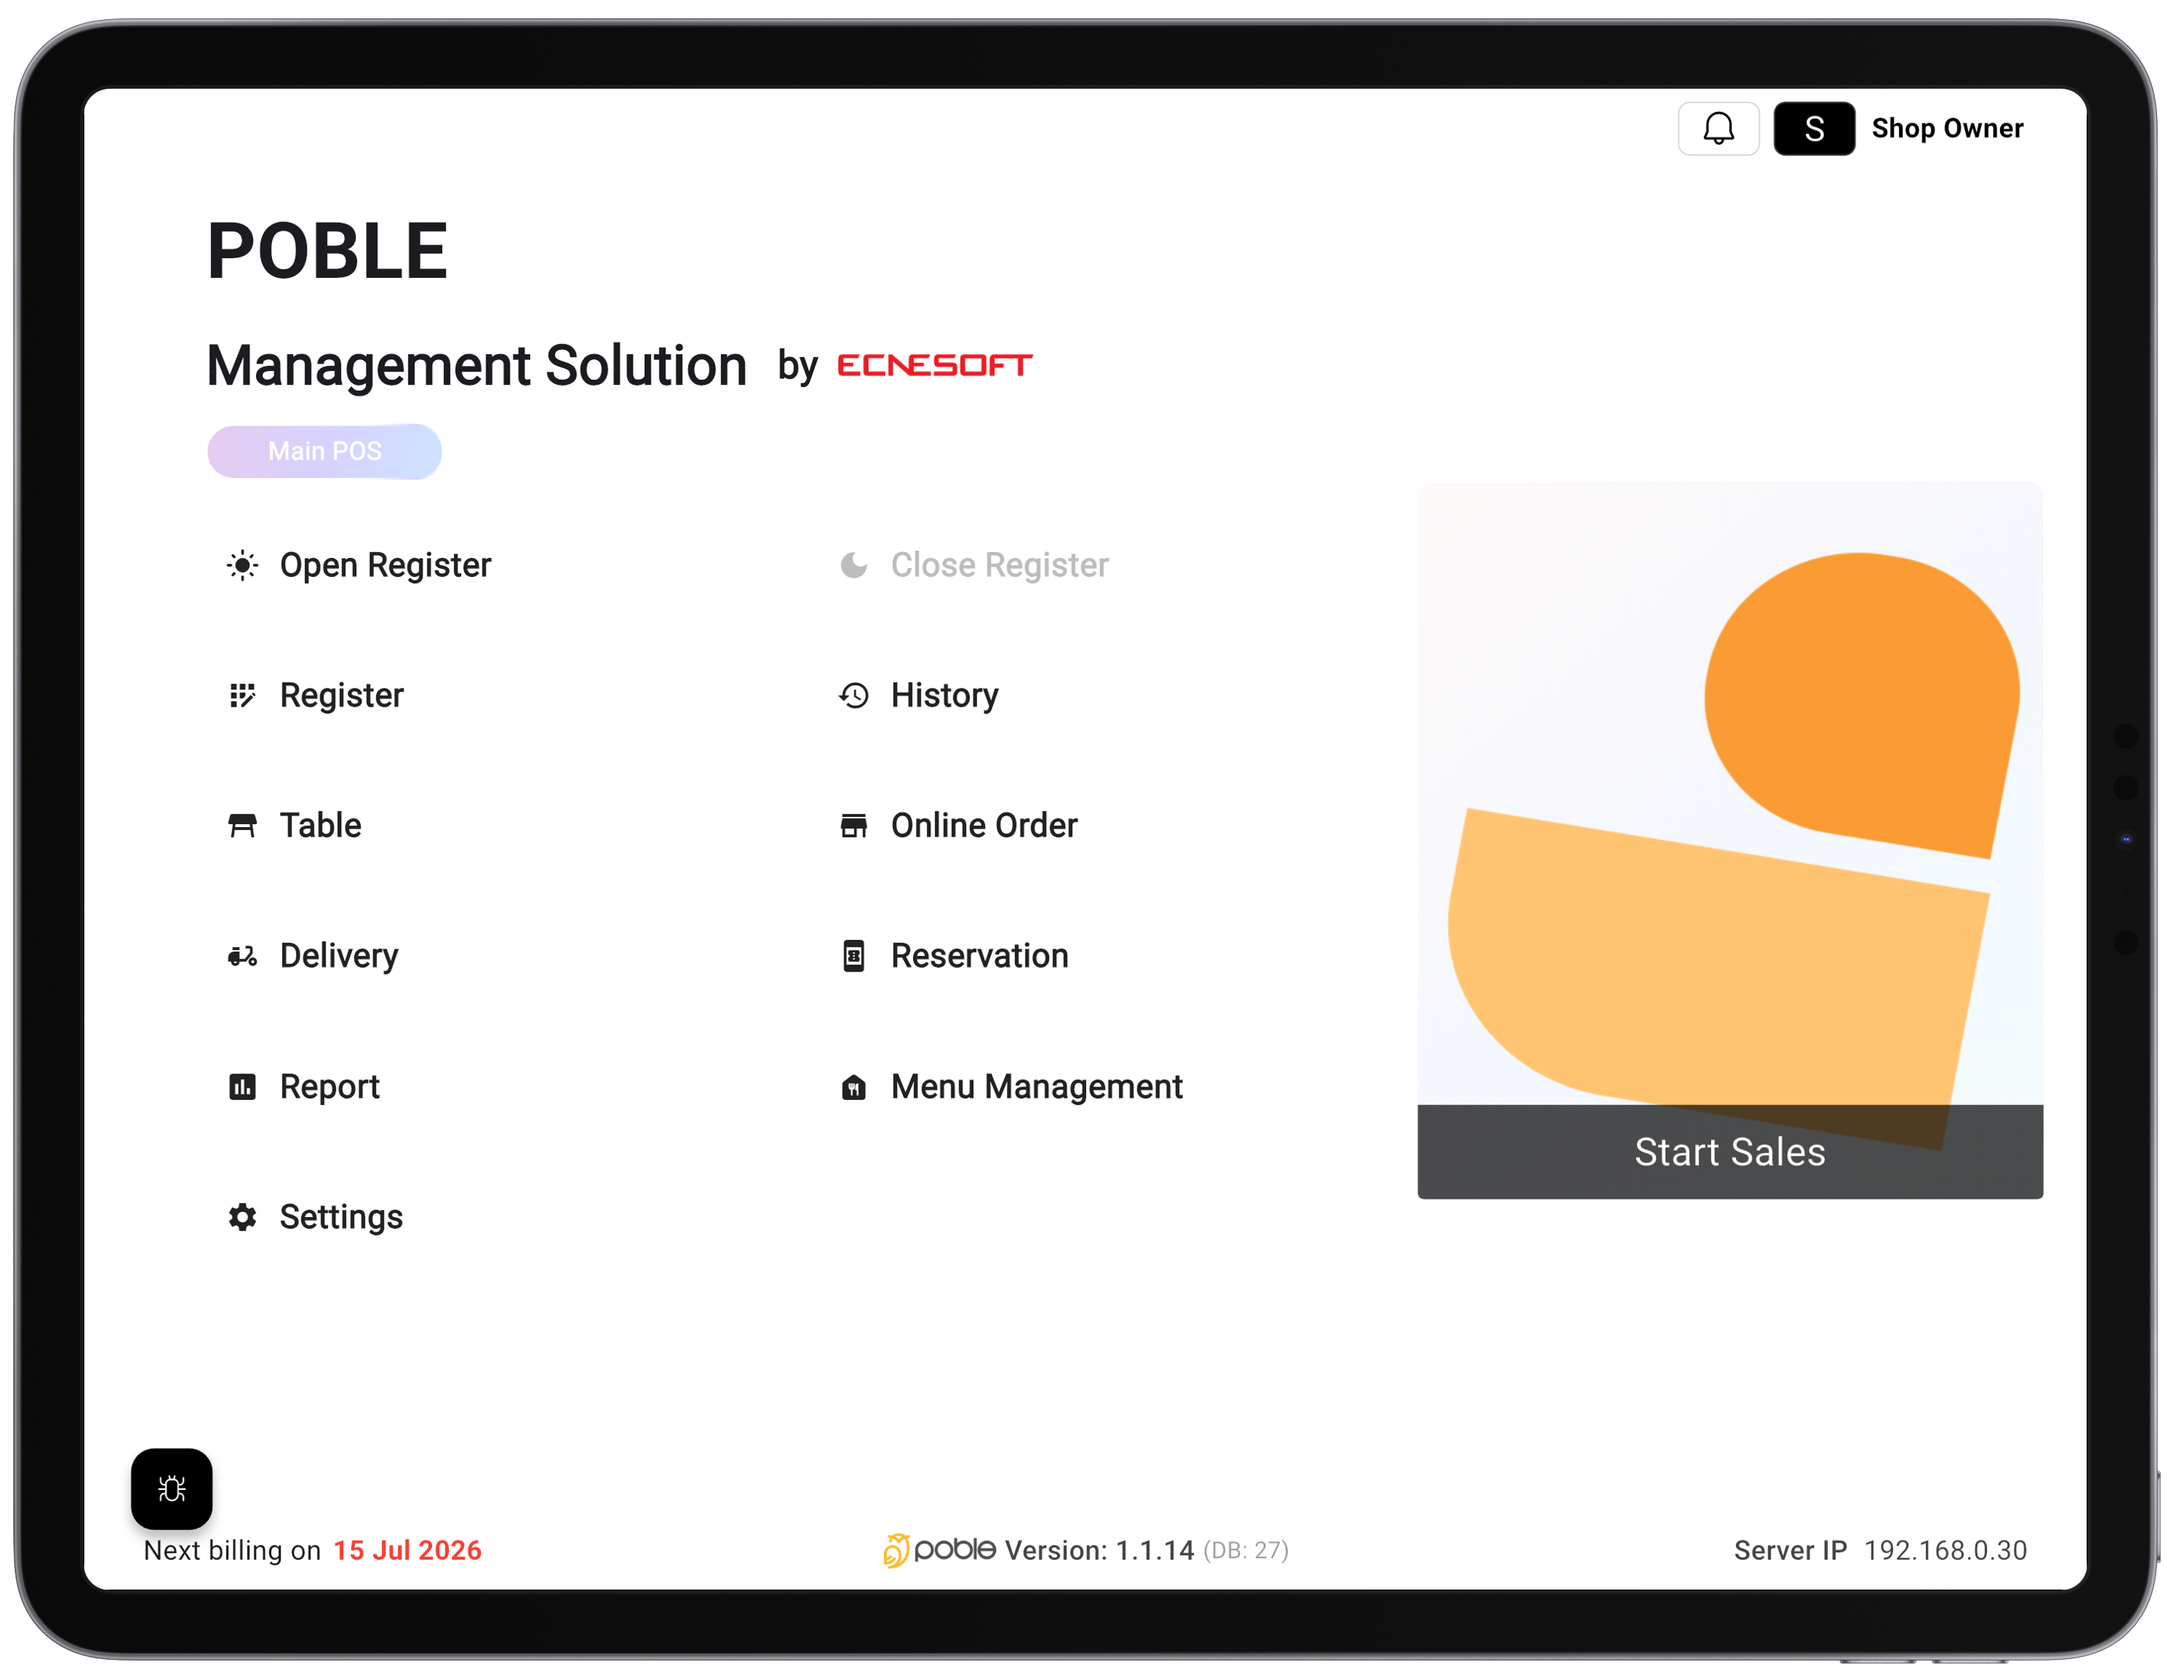
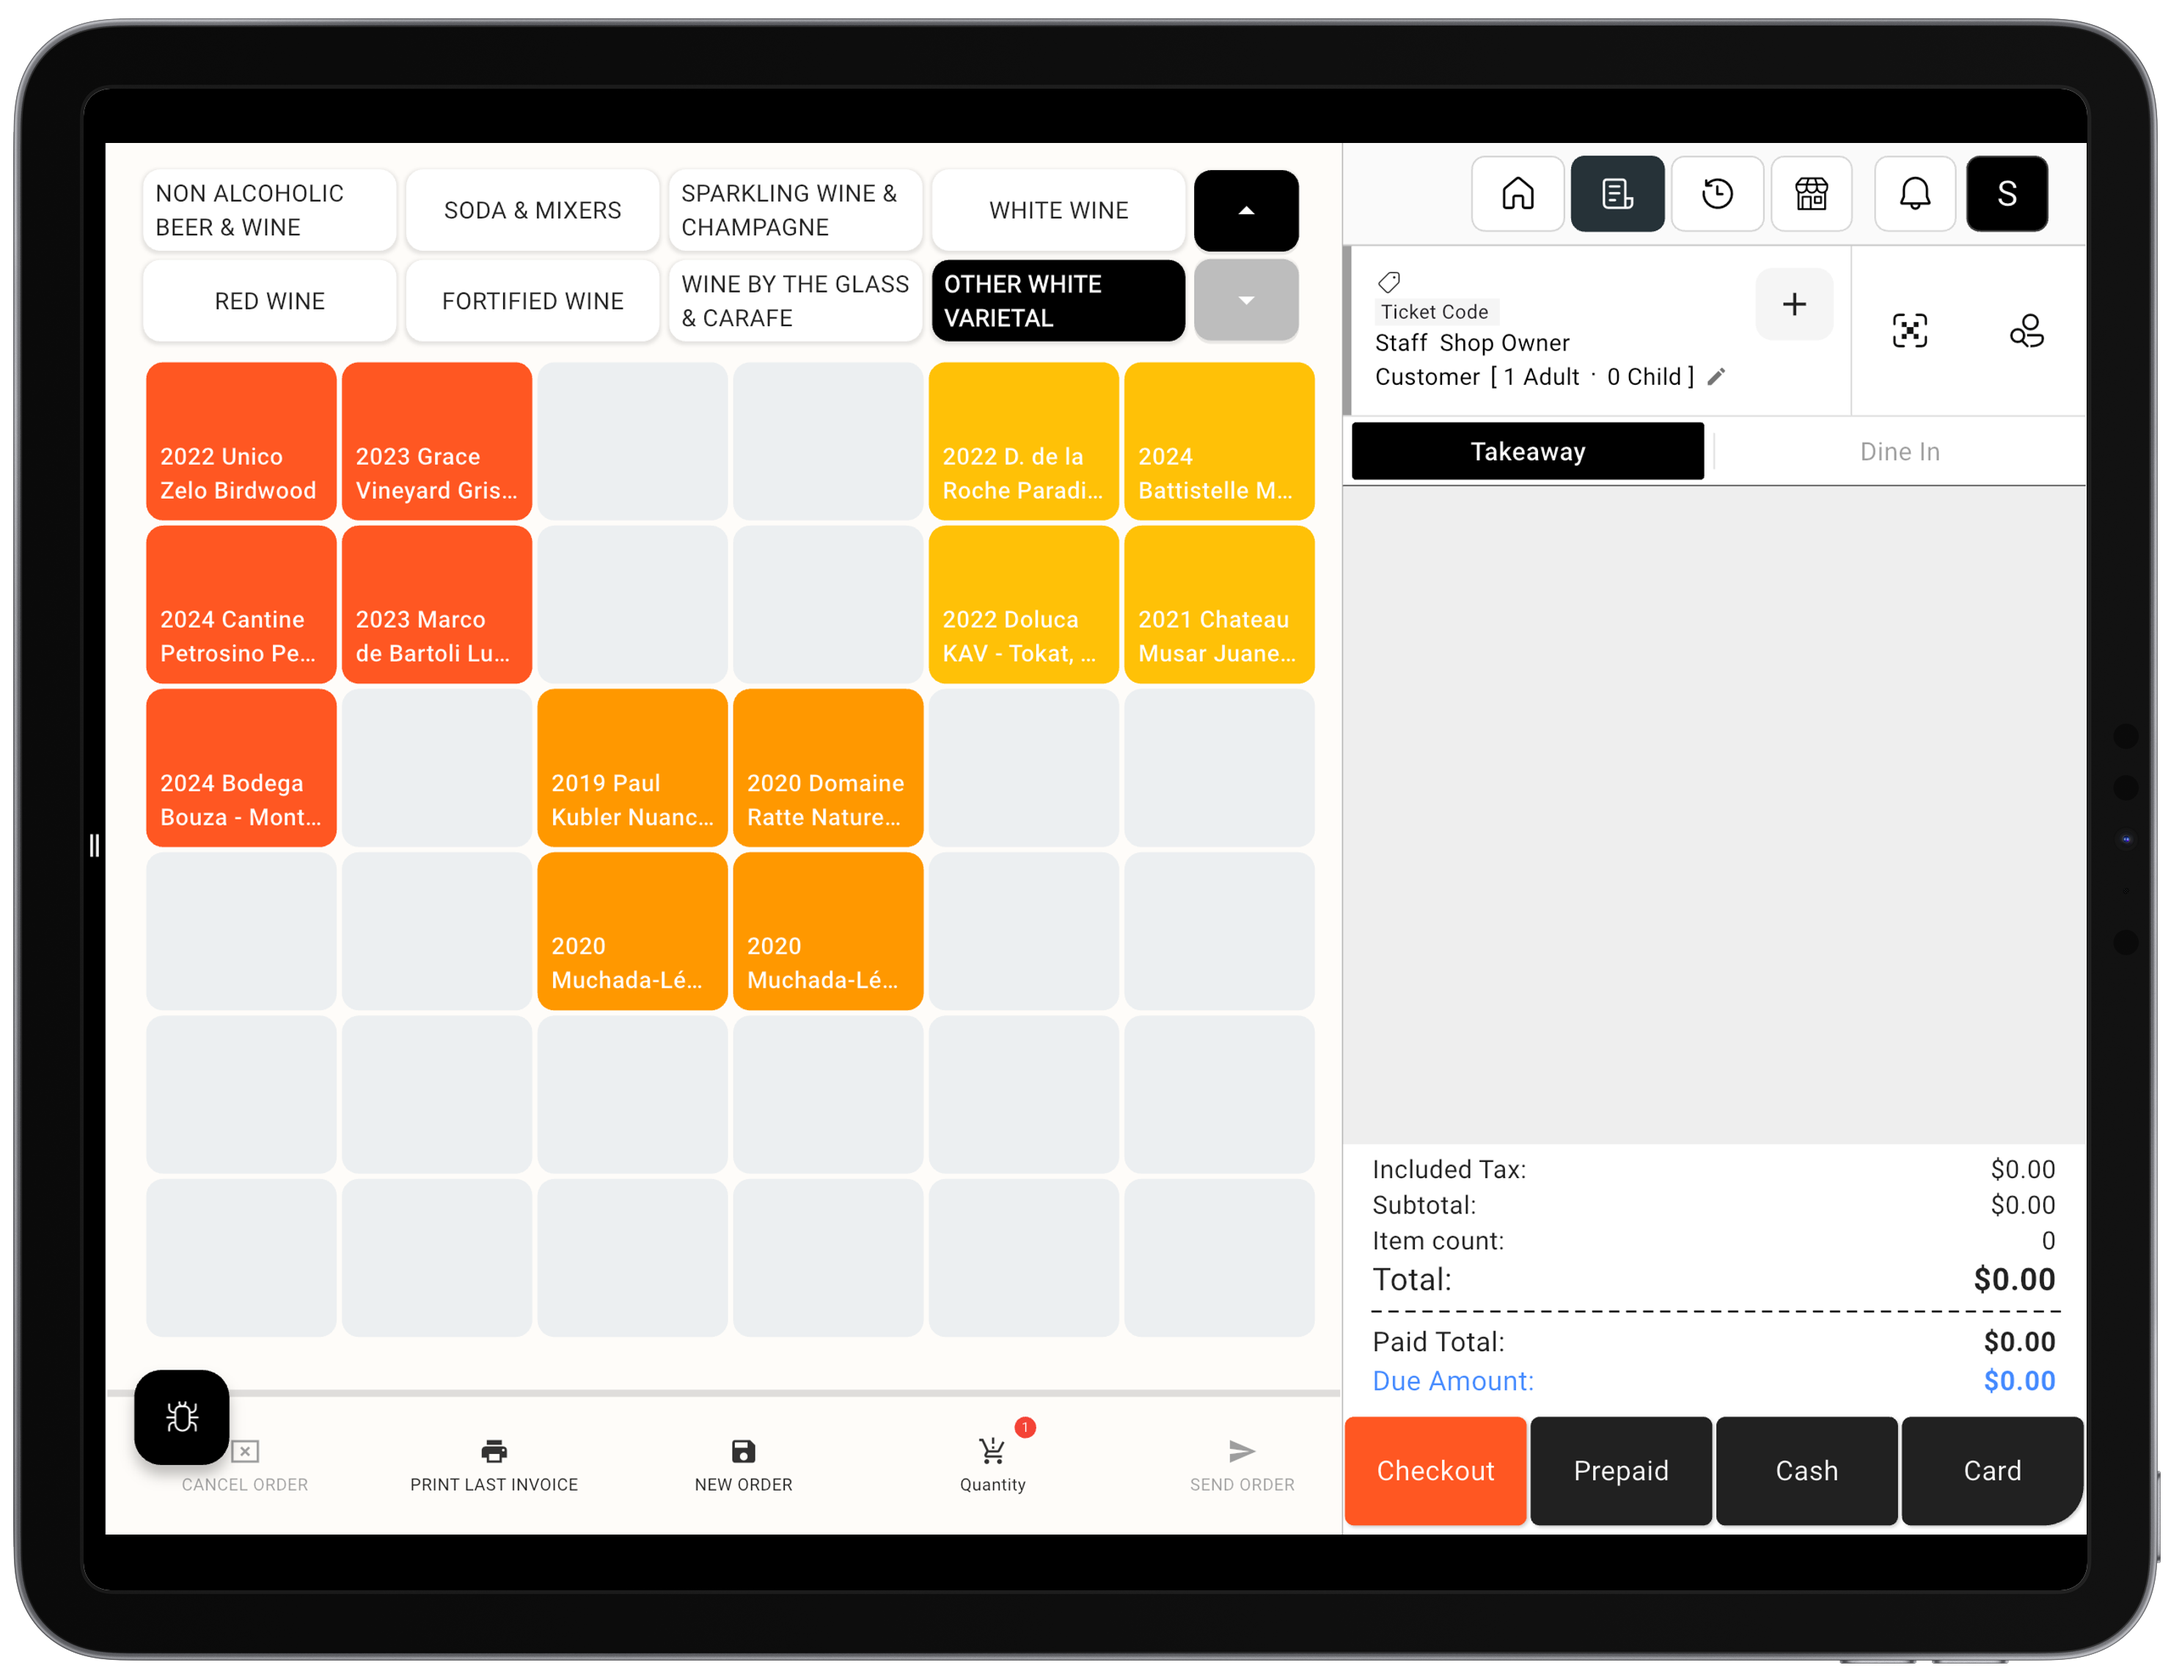
Update: POS image update

diff --git a/src/app/features/page.tsx b/src/app/features/page.tsx
@@ -108,6 +108,9 @@ const PRODUCTS: Product[] = [
       },
     ],
     screenshotLabel: "Kitchen Display screenshot",
+    screenshotSrc: "/images/pos/KDS.png",
+    screenshotWidth: 2960,
+    screenshotHeight: 2290,
   },
   {
     id: "dual-screen",
@@ -131,6 +134,9 @@ const PRODUCTS: Product[] = [
       },
     ],
     screenshotLabel: "Dual Screen screenshot",
+    screenshotSrc: "/images/pos/Dual Screen.png",
+    screenshotWidth: 2960,
+    screenshotHeight: 2290,
   },
   {
     id: "kiosk",
